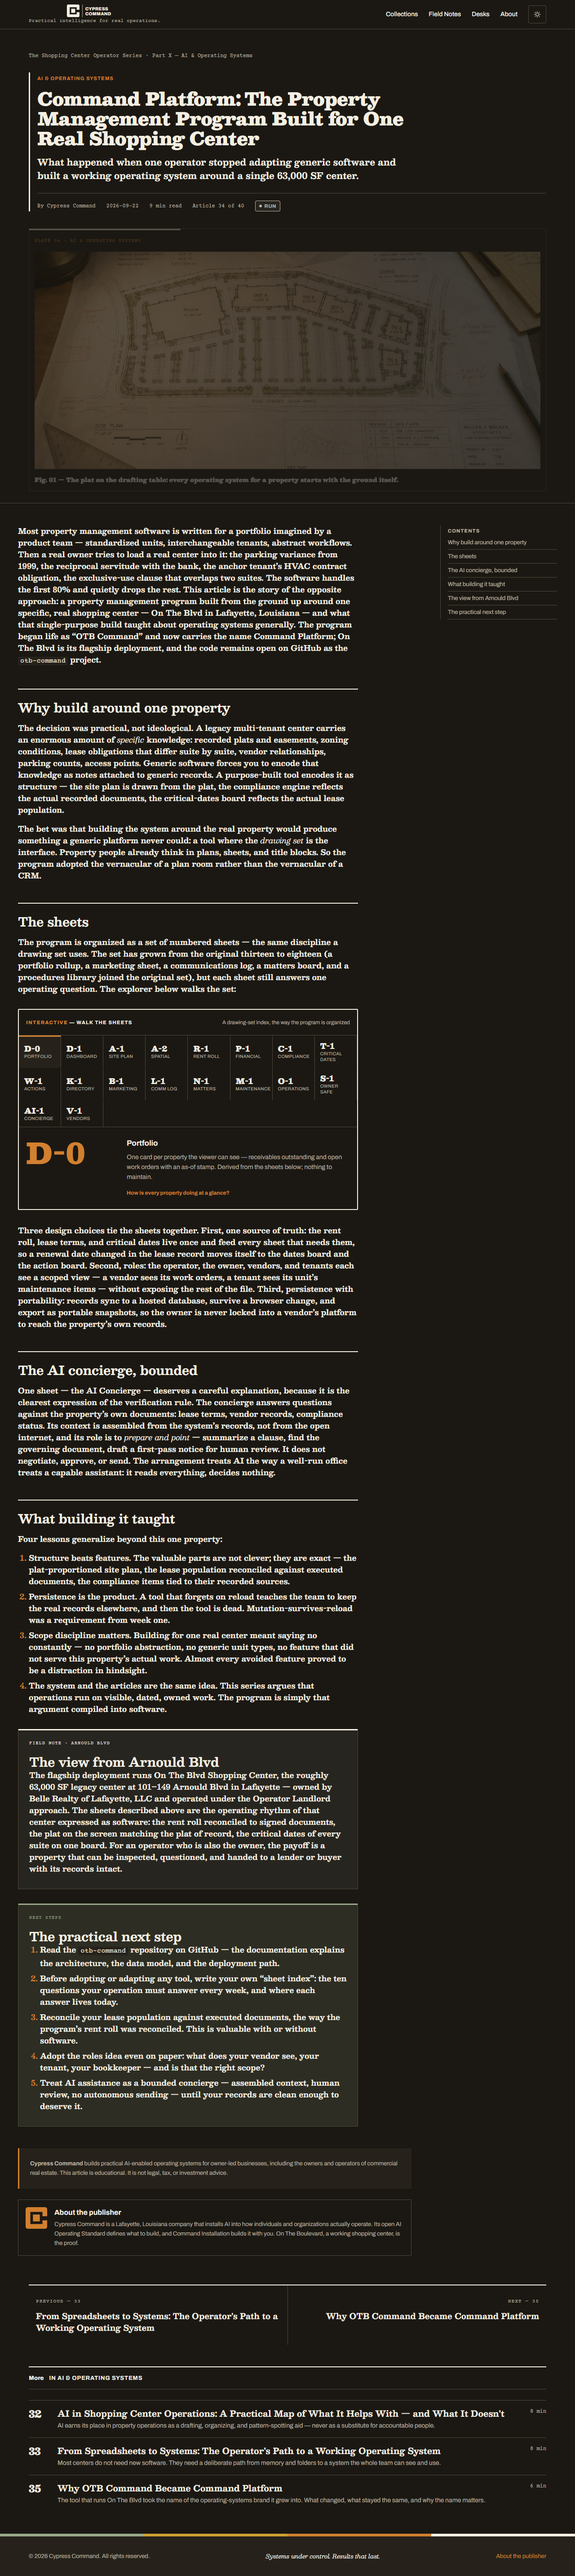
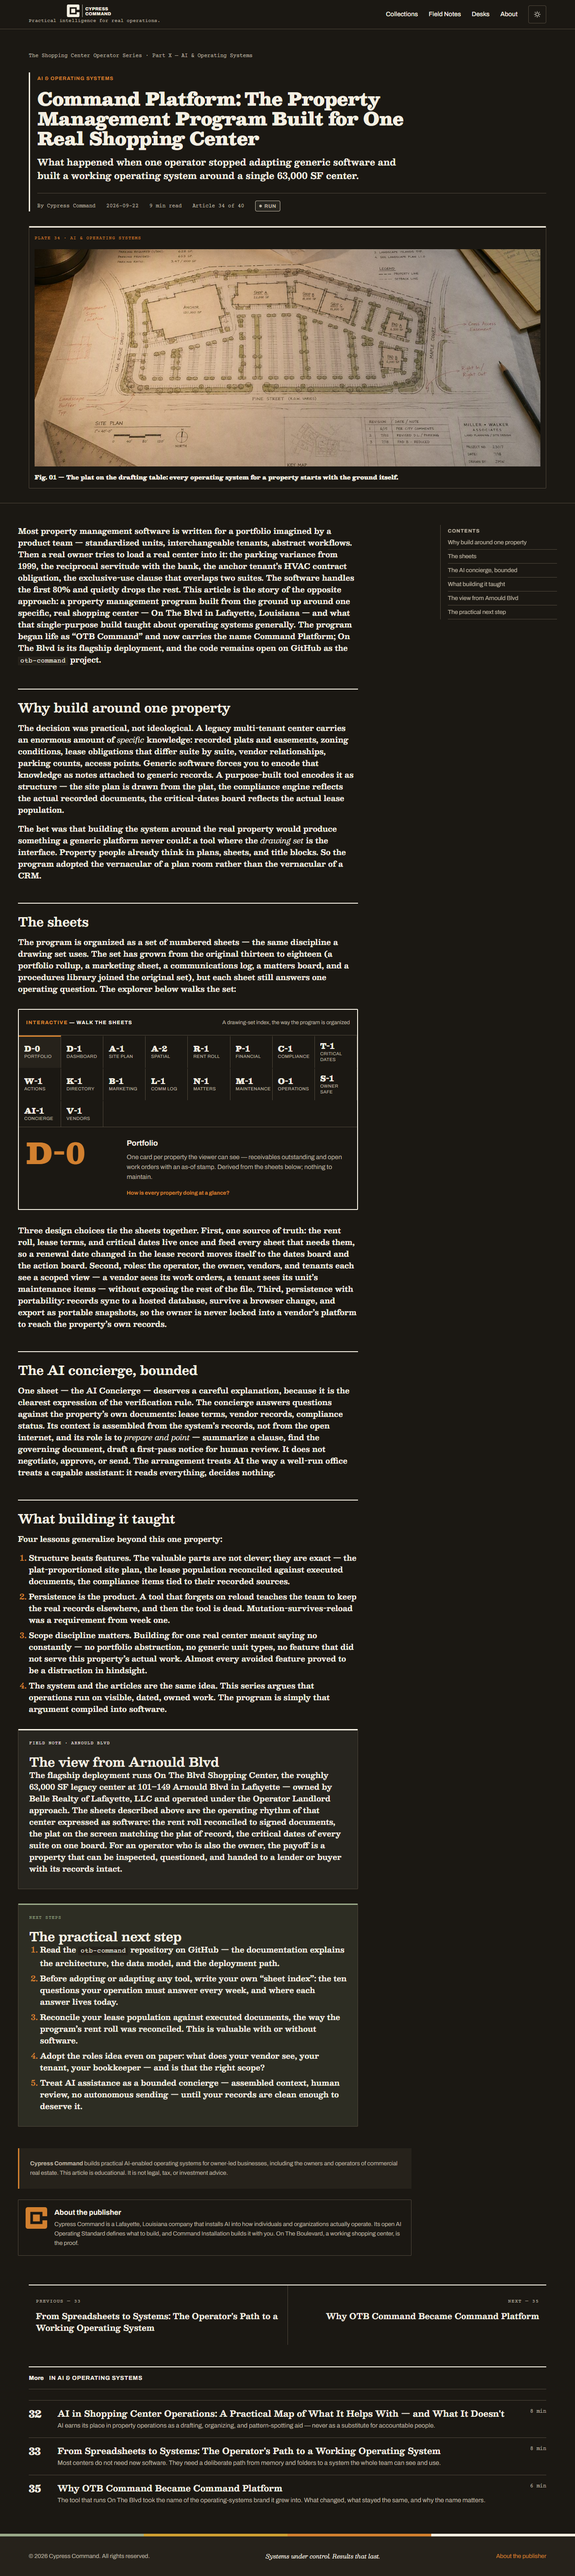
Recapture verification screenshots after entrance animations settle

Changed region(s): [[0.0625, 0.0932, 0.9375, 0.1865]]

diff --git a/docs/verification/2026-09-23/README.md b/docs/verification/2026-09-23/README.md
@@ -2,7 +2,7 @@
 
 Built from branch `hub` after Tasks 1–4 of the 2026-09-23 color pass (commits `2250db2..636688a`, 55 pages). Before building, `.astro`, `node_modules/.astro`, and `dist` were cleared so the remark-plugin output (Task 4's field-note/next-step plate wrapping) was fresh rather than served from Astro's content-layer cache — the same cache-staleness issue Task 4's fix round 1 diagnosed. Screenshots were captured against `npx astro preview --port 4321 --host 127.0.0.1` serving that clean `npm run build` output, verified byte-for-byte identical to `dist/index.html` before capture began. Night theme is forced per-page via the `?theme=night` query override in `src/layouts/Base.astro` (does not persist; used only for deterministic capture).
 
-Both widths were captured with Playwright (`npx playwright@1.56.1 screenshot --browser=chromium --channel=chrome --viewport-size=<w>,<h> --full-page ...`) — `1280,900` for desktop, `390,1200` for phone — per the brief. Headless Chrome's own `--screenshot` flag was not used this round: as documented in the 2026-09-22 record, it clamps window width to ~500px on Windows regardless of the requested `--window-size`, corrupting narrow captures. Playwright honors the requested viewport at both widths.
+Both widths were captured with Playwright (`npx playwright@1.56.1 screenshot --browser=chromium --channel=chrome --viewport-size=<w>,<h> --wait-for-timeout=900 --full-page ...`) — `1280,900` for desktop, `390,1200` for phone — per the brief. Headless Chrome's own `--screenshot` flag was not used this round: as documented in the 2026-09-22 record, it clamps window width to ~500px on Windows regardless of the requested `--window-size`, corrupting narrow captures. Playwright honors the requested viewport at both widths. **Fix round 1** added `--wait-for-timeout=900` to every capture and recaptured the full set of 44: the first pass had taken the hub screenshots while the hero's `cc-reveal` entrance animation (560ms) was still mid-fade, so `hub-day-1280.png` and `hub-night-1280.png` showed a faded Cypress panel against the publisher band below it (which has no reveal and rendered at full opacity). Article plates also use `cc-reveal`, so the 900ms settle delay — comfortably past the 560ms animation plus its `data-delay` stagger — was applied to all 44 captures, not just the hub, to guarantee every entrance animation has finished before the screenshot is taken.
 
 ## Screenshots
 
